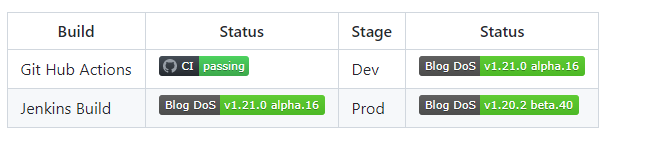
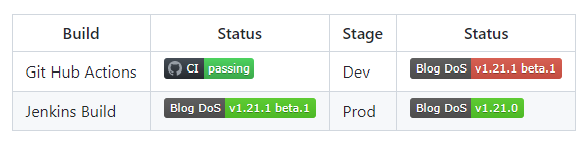
fixed the image on the Post (#47)
* setup a new branch so we can get a correct snapshot

* updated the image of badges

* fixed up the pipeline and the text

* increased the timeout for testing

* cleaned up and fix

diff --git a/src/source/_posts/Getting-Badges-to-Update-on-GitHub-Pages.md b/src/source/_posts/Getting-Badges-to-Update-on-GitHub-Pages.md
@@ -24,12 +24,12 @@ Build --> Dev --> Prod
 ```
 So at this time I just want to show three (3) badges one for each of these steps that I indicated.  So after my build step but still within it I want to add a post with a success and failure sections.  So at the end of the steps (just to recap the hierarchy of the pipeline is stages --> stage --> steps -->) and the post would be in parallel to the steps but still inside of the stage.  Then for the success step you would run the following curl command:
 ```
-sh "curl -o blogBuild.svg https://img.shields.io/badge/Blog_DoS-v${params.semver}-Green.svg"
+sh "curl -o blogBuild.svg https://img.shields.io/badge/Blog_DoS-v${params.semver}-success.svg"
 ```
 This URL that I am using is a simplified version from some of the others that I found.  However, in that simplicity there is a very specific syntax that you must follow.  There are three parts to the instructions I am sending in:
 1. The left side of the text (in my case this is Blog_DoS)
 2. The right side of the text (here I set my version number which I have stored in the parameter params.semver)
-3. Finally this is the color of the badge.  (Green is good, Red is bad, you can add other colors for other ideas.)
+3. Finally this is the color of the badge.  [(success is green, critical is red, you can add other colors for other ideas.)](https://shields.io)
 
 These three elements are separated by a **"-"** so you want to make sure you are not using the dash in your names or version numbers.
 #### Step 2. Copy the Badge to a public shared location
